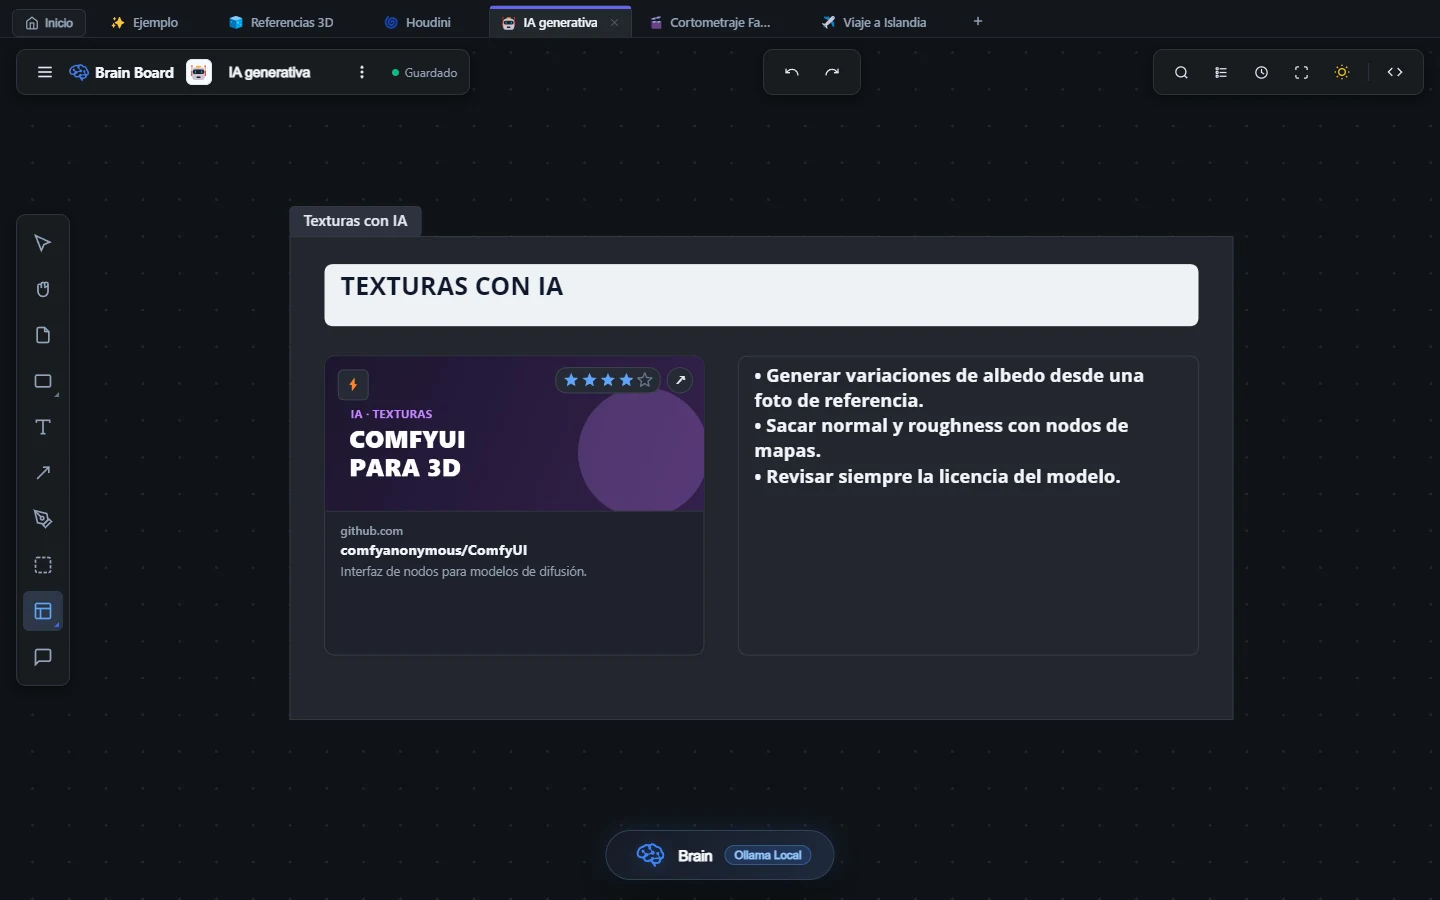
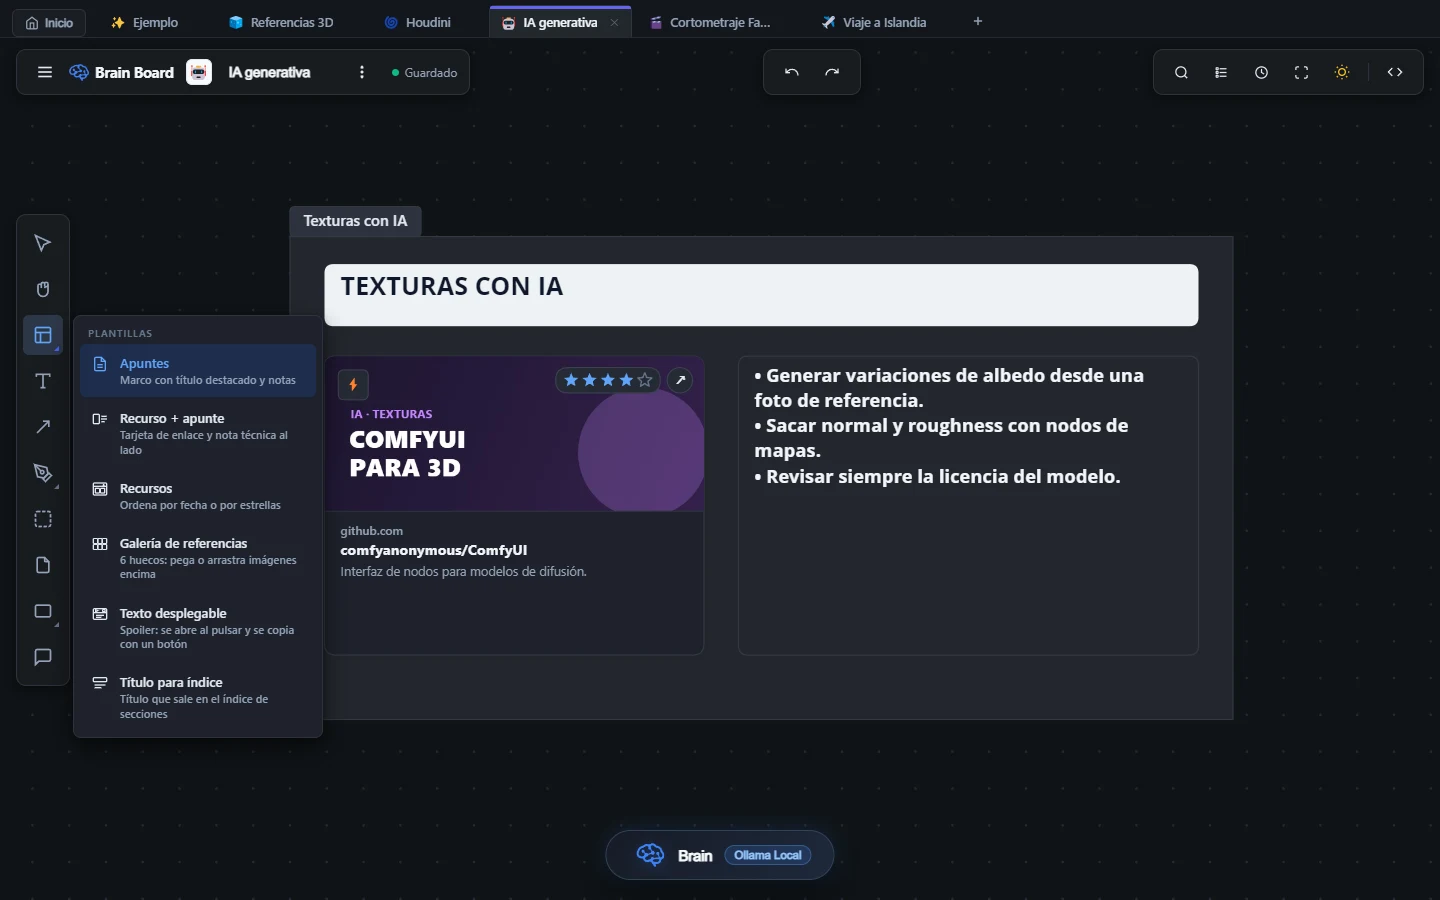
chore: actualizar web a v1.0.7
- Versión, descarga y novedades de la v1.0.7
- Documentación: plantillas nuevas (Recursos, Texto desplegable, Título para índice), marcos, colores y pluma, imagen unida al enlace y ordenar recursos
- Captura del menú de plantillas y barra de la maqueta con el orden nuevo

Changed region(s): [[0.0, 0.5289, 0.2188, 0.8089], [0.0, 0.3422, 0.2188, 0.4978], [0.0, 0.56, 0.0312, 0.5911]]

diff --git a/src/data/docs.js b/src/data/docs.js
@@ -38,7 +38,7 @@ export const DOCS_SECTIONS = [
     title: 'El lienzo',
     icon: MousePointer2,
     blocks: [
-      { type: 'p', text: 'La barra de la izquierda tiene todas las herramientas: seleccionar, mano, notas, formas, texto, conectores, lápiz, plantillas y comentarios. Los **marcos** agrupan lo que pongas dentro y se mueven con su contenido.' },
+      { type: 'p', text: 'La barra de la izquierda tiene todas las herramientas: seleccionar, mano, plantillas, texto, conectores, pluma, marcos, notas, formas y comentarios. Los **marcos** agrupan lo que pongas dentro y se mueven con su contenido.' },
       { type: 'shot', id: 'lienzo', caption: 'Un tablero con marcos, notas y tarjetas. Al seleccionar algo aparece su barra de propiedades.' },
       { type: 'h3', text: 'Pegar cualquier cosa' },
       { type: 'list', items: [
@@ -48,8 +48,28 @@ export const DOCS_SECTIONS = [
         '**Rutas de carpetas o archivos**: se convierten en tarjetas de carpeta.',
       ] },
       { type: 'h3', text: 'Plantillas' },
-      { type: 'p', text: 'Bloques ya maquetados para no empezar de cero: **Apuntes**, **Recurso + apunte**, **Galería de referencias** (6 huecos donde pegar o arrastrar imágenes) y **Comparativa** (3 columnas).' },
+      { type: 'p', text: 'Bloques ya maquetados para no empezar de cero. Pulsa el botón de plantillas una vez para elegirlo y otra para abrir el menú:' },
+      { type: 'list', items: [
+        '**Apuntes**: un marco con un título grande y una nota. El título se ajusta al ancho del marco cuando lo cambias de tamaño.',
+        '**Recurso + apunte**: una tarjeta de enlace con su nota técnica al lado.',
+        '**Recursos**: un marco para guardar enlaces, vídeos e imágenes y ordenarlos por fecha o por estrellas (ver Enlaces y recursos).',
+        '**Galería de referencias**: 6 huecos donde pegar o arrastrar imágenes.',
+        '**Texto desplegable**: un texto que se abre y se cierra con un clic en su cabecera, con un botón para copiarlo entero. Ideal para prompts largos.',
+        '**Título para índice**: un título que aparece en el índice de secciones.',
+      ] },
       { type: 'shot', id: 'plantillas', caption: 'El menú de plantillas, en la barra de herramientas.' },
+      { type: 'h3', text: 'Marcos' },
+      { type: 'list', items: [
+        'La etiqueta de un marco de plantilla enseña su título. Doble clic en la etiqueta para editarlo.',
+        'Un marco nuevo se coloca al fondo. La primera vez que lo arrastras no se lleva lo que pisa; cuando ya está colocado, arrastra todo lo que tiene encima.',
+        'Puedes meter un marco dentro de otro: en el índice de secciones aparece como su hijo.',
+      ] },
+      { type: 'h3', text: 'Colores y pluma' },
+      { type: 'list', items: [
+        'El color que eliges en la paleta se ve igual en el tema oscuro y en el claro. Lo que no has coloreado se adapta solo al tema y su texto siempre se lee.',
+        'La muestra tachada de la paleta de relleno es **Sin color**: quita el fondo.',
+        '**Pluma** ({{P}}): al elegirla se abre un panel con el grosor y tus colores favoritos. Vuelve a pulsarla para abrirlo otra vez.',
+      ] },
       { type: 'h3', text: 'Ordenar y alinear' },
       { type: 'list', items: [
         '**Alinear y distribuir**: selecciona 2 o más elementos (3 o más para distribuir) y usa el botón de alinear de la barra de propiedades.',
@@ -71,7 +91,10 @@ export const DOCS_SECTIONS = [
         '**Abrir**: botón ↗ de la tarjeta, doble clic, o {{Ctrl}} + clic en cualquier elemento con enlace.',
         '**Puntuar**: pasa el ratón por la tarjeta y elige de 1 a 5 estrellas. Pulsa la misma estrella para quitar la nota.',
         '**Enlaces repetidos**: si pegas algo que ya tenías en cualquier tablero, te avisa con un botón para ir a verlo.',
+        '**Una imagen para cada enlace**: selecciona la tarjeta y pega una imagen ({{Ctrl+V}}) o usa el botón de añadir imagen. Se coloca al lado y quedan unidas: se mueven, se copian y se ordenan juntas. Con una tarjeta y una imagen seleccionadas, **Unir** o **Separar**.',
       ] },
+      { type: 'h3', text: 'Ordenar recursos' },
+      { type: 'p', text: 'La plantilla **Recursos** tiene un botón **Ordenar** en su título: coloca lo que hay dentro en filas por **más o menos reciente** o por **más o menos estrellas** (lo que no tiene estrellas va al final). Si no cabe, el marco crece, y todo se deshace con {{Ctrl+Z}}.' },
       { type: 'h3', text: 'Carpetas y archivos del ordenador' },
       { type: 'p', text: 'Pega la ruta de una carpeta o de un archivo, cópiala en el Explorador con {{Ctrl+C}} o arrástrala al tablero. La tarjeta lee el contenido del disco cada vez que la miras, así que siempre está al día.' },
       { type: 'shot', id: 'carpetas', caption: 'Una carpeta de proyecto desplegada y un archivo de Blender.' },
@@ -94,7 +117,7 @@ export const DOCS_SECTIONS = [
       ] },
       { type: 'shot', id: 'busqueda', caption: 'Búsqueda en todos los tableros, agrupada por tablero.' },
       { type: 'h3', text: 'Índice de secciones' },
-      { type: 'p', text: 'El botón de lista de la barra superior enseña los marcos y cabeceras del tablero para saltar a cualquiera de ellos. Muy útil en tableros grandes.' },
+      { type: 'p', text: 'El botón de lista de la barra superior enseña los marcos y cabeceras del tablero para saltar a cualquiera de ellos. Muy útil en tableros grandes. Los marcos que están dentro de otros salen debajo de su marco, como en un árbol, y la plantilla **Título para índice** añade un título suelto a la lista.' },
       { type: 'shot', id: 'indice', caption: 'Índice de secciones del tablero.' },
     ],
   },
@@ -182,7 +205,7 @@ export const DOCS_SECTIONS = [
       { type: 'table', head: ['Atajo', 'Qué hace'], rows: [
         ['{{V}} {{H}}', 'Seleccionar / mano'],
         ['{{N}} {{S}} {{T}}', 'Nota / forma / texto'],
-        ['{{L}} {{P}} {{F}} {{C}}', 'Conector / lápiz / marco / comentario'],
+        ['{{L}} {{P}} {{F}} {{C}}', 'Conector / pluma / marco / comentario'],
         ['{{Ctrl+C}} {{Ctrl+X}} {{Ctrl+V}}', 'Copiar, cortar y pegar'],
         ['{{Ctrl+D}} o {{Alt}} + arrastrar', 'Duplicar'],
         ['{{Ctrl+A}}', 'Seleccionar todo'],

diff --git a/src/data/content.js b/src/data/content.js
@@ -10,11 +10,11 @@ import {
 export const APP_INFO = {
   name: 'Brain Board',
   author: 'Pablo Livian',
-  version: 'v1.0.6',
-  installerName: 'Brain-Board-Setup-1.0.6.exe',
+  version: 'v1.0.7',
+  installerName: 'Brain-Board-Setup-1.0.7.exe',
   installerUrl: '#descarga',
   directDownloadFile:
-    'https://github.com/PabloLivian/BrainBoard/releases/download/v1.0.6/Brain-Board-Setup-1.0.6.exe',
+    'https://github.com/PabloLivian/BrainBoard/releases/download/v1.0.7/Brain-Board-Setup-1.0.7.exe',
   size: '89.6 MB',
   os: 'Windows 10 / 11 (64-bit)',
   architecture: 'x64 Nativo',
@@ -101,10 +101,10 @@ export const BASICS = [
 ];
 
 export const CHANGELOG_LATEST = [
-  'Busca en todos tus tableros a la vez (Ctrl+Shift+F) y salta a cualquier sección con el nuevo índice.',
-  'El Cerebro IA te propone los cambios antes de tocar el tablero (Insertar, Descartar y Deshacer) y responde sobre lo que selecciones.',
-  'Puntúa con estrellas tus enlaces, recibe un aviso si ya tenías guardado uno y abre carpetas de tu PC desde el tablero.',
-  'Papelera de 30 días y una copia automática diaria de todos tus tableros.',
-  'Mapa de Frescura configurable, alinear y distribuir, plantillas de Galería y Comparativa, y capas más intuitivas.',
-  'Tablero de Ejemplo renovado: guía de todas las funciones y de cómo conseguir la clave gratis de Google Gemini.',
+  'Nueva plantilla Recursos: ordena enlaces, vídeos e imágenes por fecha o por estrellas, y une una imagen a cada enlace para que vayan juntos.',
+  'Contenedores más listos: el título se ajusta al tamaño, la etiqueta enseña el título y el índice de secciones muestra los marcos anidados en árbol.',
+  'Nuevo texto desplegable (spoiler) que se abre con un clic y se copia con un botón.',
+  'La pluma vuelve a funcionar, ahora con grosor y color a elegir entre tus favoritos.',
+  'Los colores que eliges se ven igual en el tema oscuro y en el claro, con la nueva opción Sin color para quitar el relleno.',
+  'Barra de herramientas reordenada y nueva plantilla Título para índice.',
 ];

diff --git a/src/components/AppMockup.jsx b/src/components/AppMockup.jsx
@@ -42,13 +42,13 @@ function Icon({ name, size = 16 }) {
 const TOOLS = [
   { id: 'select', label: 'Seleccionar (V)' },
   { id: 'hand', label: 'Mano (H)' },
-  { id: 'note', label: 'Nota adhesiva (N)' },
-  { id: 'shape', label: 'Forma (S)', flyout: true },
+  { id: 'template', label: 'Plantillas', flyout: true },
   { id: 'text', label: 'Texto (T)' },
   { id: 'connector', label: 'Conector (L)' },
-  { id: 'pen', label: 'Lápiz (P)' },
+  { id: 'pen', label: 'Pluma (P)', flyout: true },
   { id: 'frame', label: 'Marco (F)' },
-  { id: 'template', label: 'Plantillas', flyout: true },
+  { id: 'note', label: 'Nota adhesiva (N)' },
+  { id: 'shape', label: 'Forma (S)', flyout: true },
   { id: 'comment', label: 'Comentario (C)' },
 ];
 
